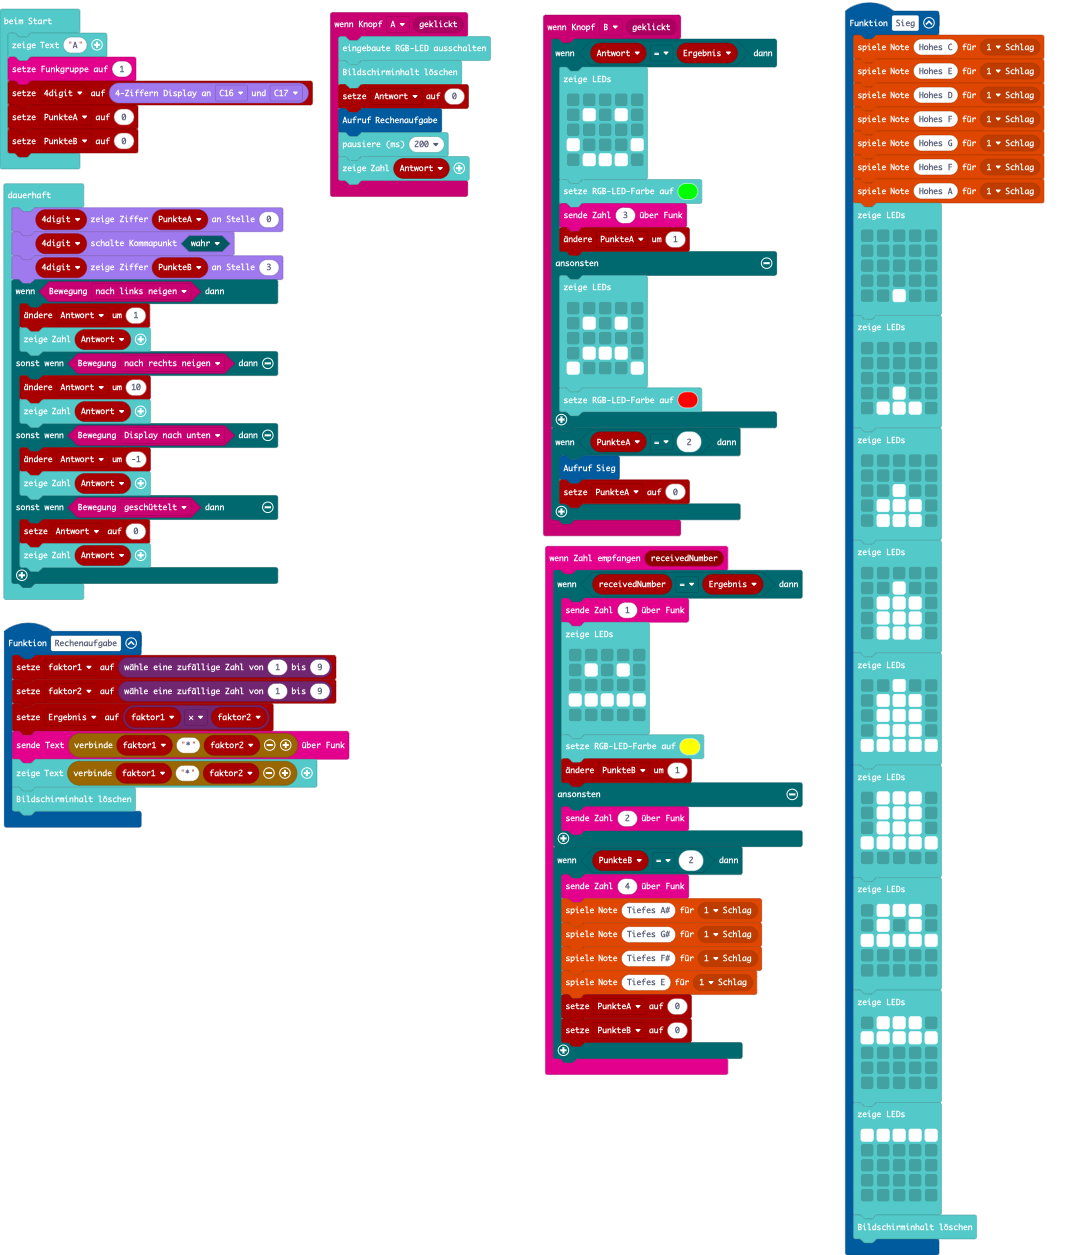
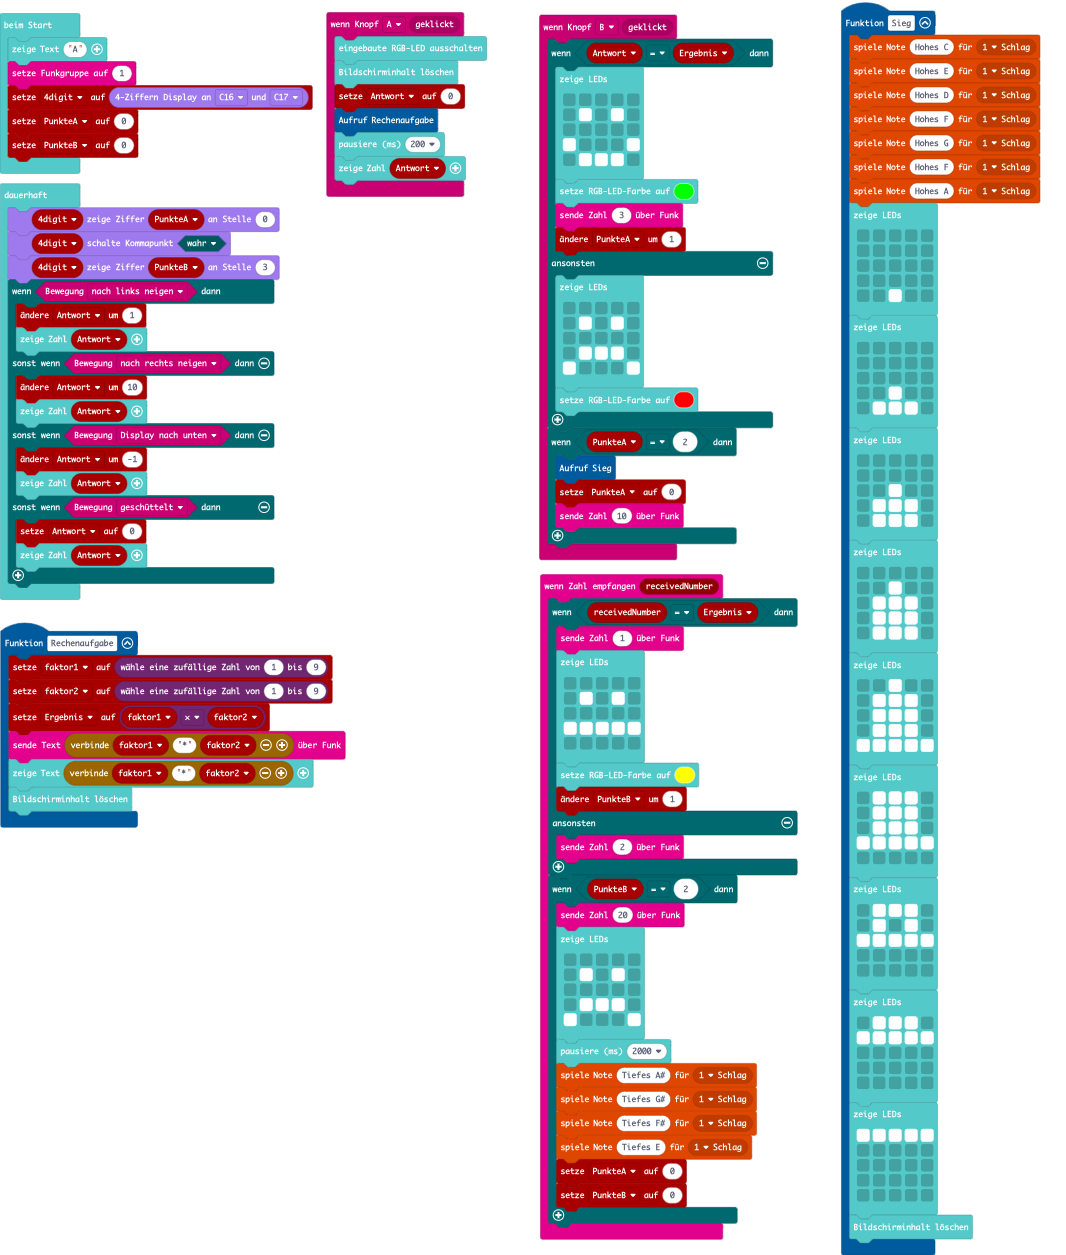
Aktualisiere main.blocks, main.ts

diff --git a/main.ts b/main.ts
@@ -18,7 +18,15 @@ radio.onReceivedNumber(function (receivedNumber) {
         radio.sendNumber(2)
     }
     if (PunkteB == 2) {
-        radio.sendNumber(4)
+        radio.sendNumber(20)
+        basic.showLeds(`
+            . . . . .
+            . # . # .
+            . . . . .
+            . # # # .
+            # . . . #
+            `)
+        basic.pause(2000)
         music.playTone(233, music.beat(BeatFraction.Whole))
         music.playTone(208, music.beat(BeatFraction.Whole))
         music.playTone(185, music.beat(BeatFraction.Whole))
@@ -60,6 +68,7 @@ input.onButtonEvent(Button.B, input.buttonEventClick(), function () {
     if (PunkteA == 2) {
         Sieg()
         PunkteA = 0
+        radio.sendNumber(10)
     }
 })
 function Rechenaufgabe () {
